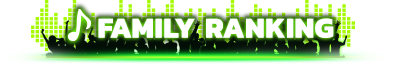
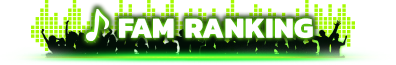
update

Changed region(s): [[0.1515, 0.0615, 0.8788, 0.7077]]

diff --git a/css/playpark.custom.css b/css/playpark.custom.css
@@ -1,44 +1,16 @@
 /**********************************************************/
 /******************** Font Setting  ***********************/
 /**********************************************************/
-
 .ff-kn {
 	font-family: 'Kanit', sans-serif;
 }
 /**********************************************************/
 /********************** BS Custom  ************************/
 /**********************************************************/
-
-.nav-pills .nav-link {
-	border-radius: .25rem;
-	color: #ff7676;
-	background-color: #a00000;
-}
-.nav-pills .nav-link.active, .nav-pills .show>.nav-link {
-	color: #fff;
-	background-color: #ef0000;
-	opacity: 1;
-	font-weight: 700;
-}
 .table td, .table th {
 	padding: 0.45rem 0.75rem;
 	vertical-align: top;
 	border-top: 1px solid #305d10;
-}
-.nav-link {
-	display: block;
-	padding: 0.2rem 1rem;
-}
-/* .table td, .table th {
-    padding: 0.4rem 0.75rem;
-    vertical-align: top;
-    border-top: 1px solid #840000;
-    width: 210px;
-} */
-.dropdown-item.active, .dropdown-item:active {
-	color: #fff;
-	text-decoration: none;
-	background-color: #bf0000;
 }
 .table th {
 	width: 85px;
@@ -90,14 +62,10 @@
 	text-shadow: 0 1px 0px #ffda00, 0 0 3px #ffda00;
 }
 .box-full {
-	/* width: 324px; */
 	position: relative;
 	font-size: 12px;
 	color: white;
-	/* background: url(../images/bg.png) center center; */
-	/* background-color: rgb(19, 0, 0); */
-	/* background-size: cover; */
-	height: 855px;
+	height: 885px;
 	width: 696px;
 	padding: 10px !important;
 	background: rgb(0, 0, 0);
@@ -105,24 +73,6 @@
 	border: 2px #7cf921 dotted;
 }
 
-/**********************************************************/
-/******************** Media Query  ************************/
-/**********************************************************/
-
-@media (min-width:1200px) {
-}
-
-@media (min-width:992px)and (max-width:1199px) {
-}
-
-@media (min-width:768px)and (max-width:991px) {
-}
-
-@media (min-width:576px)and (max-width:767px) {
-}
-
-@media (max-width:575px) {
-}
 .cell-overflow {
 	display: inline-block;
 	overflow: hidden;
@@ -147,8 +97,26 @@
 	color: #ffcc08;
 	font-weight: 700;
 }
-
 .fst-ts {
     font-size: 16px;
     font-weight: 700
+}
+
+/**********************************************************/
+/******************** Media Query  ************************/
+/**********************************************************/
+
+@media (min-width:1200px) {
+}
+
+@media (min-width:992px)and (max-width:1199px) {
+}
+
+@media (min-width:768px)and (max-width:991px) {
+}
+
+@media (min-width:576px)and (max-width:767px) {
+}
+
+@media (max-width:575px) {
 }

diff --git a/index.html b/index.html
@@ -24,7 +24,7 @@
             <img src="images/fam-pic-1.png" class="img-fluid">
         </div>
           <div class="col-12 fst-ts cell-overflow">
-           อันดับที่ 1 : Family Name 
+           อันดับที่ 1 : Family Name
         </div>
     </div>
     <div class="row mt-4">
@@ -32,10 +32,10 @@
         <table class="table text-center " >
           <tbody>
             <tr class="theme-table-top">
-              <td class="col-size-1"> อันดับที่ </td>
-              <td class="col-size-2"> ชื่อ Family </td>
-              <td class="col-size-3"> คะเเนน Family </td>
-              <td class="col-size-4"> เเนะนำ Family </td>
+              <td class="col-size-1"> อันดับ </td>
+              <td class="col-size-2"> ชื่อ FAM </td>
+              <td class="col-size-3"> คะเเนน <br> FAM POINT </td>
+              <td class="col-size-4"> เเนะนำ FAM </td>
             </tr>
           </tbody>
         </table>
@@ -45,12 +45,6 @@
       <div class="col-12 style-2">
         <table class="table text-center " >
           <tbody>
-            <!-- <tr class="theme-table-top">
-              <td class="col-size-1"> อันดับที่ </td>
-              <td class="col-size-2"> ชื่อ Family </td>
-              <td class="col-size-3"> คะเเนน Family </td>
-              <td class="col-size-4"> เเนะนำ Family </td>
-            </tr> -->
             <tr>
               <td class="col-size-1 cell-overflow"> 1 </td>
               <td class="col-size-2 cell-overflow"> Family Name </td>
@@ -178,12 +172,5 @@
 <script src="js/bootstrap.min.js"></script>
 <!-- Javascript Custom -->
 <script src="js/playpark.custom.js"></script>
-<script>
-    $('.dropdown-menu a').on('click', function(){    
-    $('.dropdown-toggle').html($(this).html());    
-})
-    </script>
-<script src="js/getsheet.js"></script>
-<script src="https://spreadsheets.google.com/feeds/cells/1wDgnAeNK06RKqlFOTy7ZtABsaX6tN_gJLt4AzQjkq2c/1/public/basic?alt=json-in-script&callback=onDataLoaded"></script>
 </body>
 </html>
